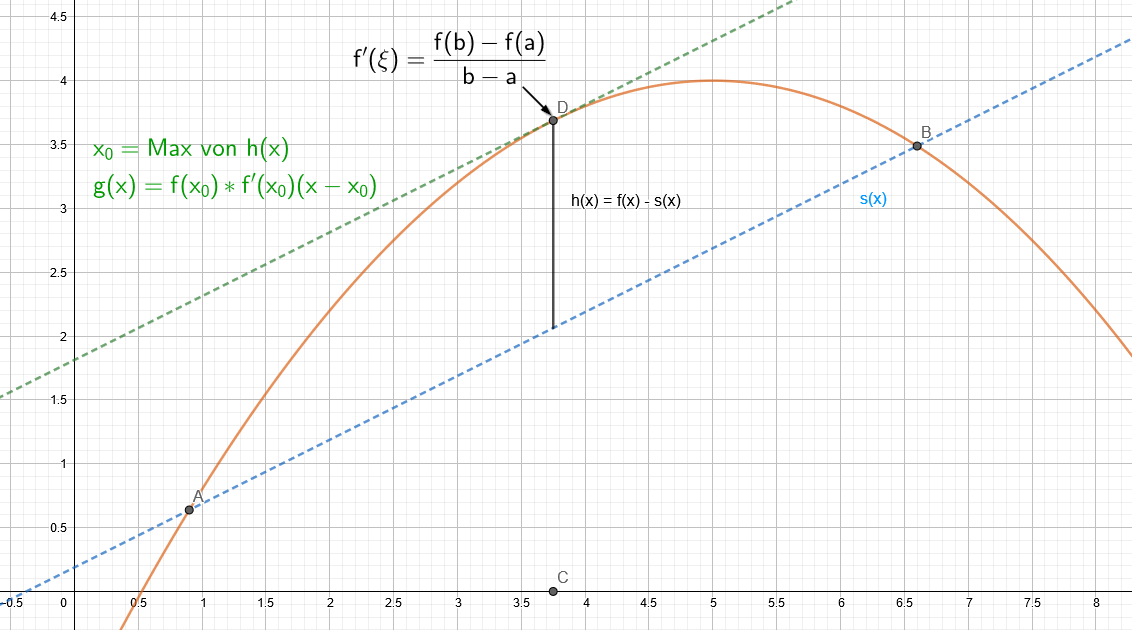
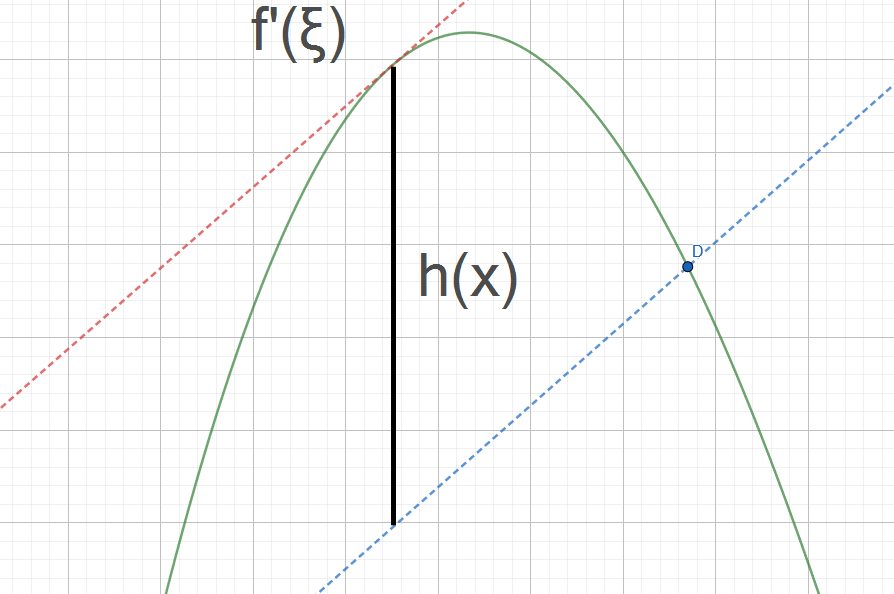
Improve MWS and Fehlerfortpflanzung

diff --git a/Sections/Differenzialrechnungen.tex b/Sections/Differenzialrechnungen.tex
@@ -34,9 +34,6 @@ Das Differential ist $dy = f'(x) \cdot dx$ und kann mit $\underbrace{f(x) - f(x_
 \end{tabular}
 }
 
-\subsection{Tangentengleichung}
-Bestimmen der Steigung $m$ durch $f'$ und anschliessend mit gegebenem Punkt $(x,y)$ folgenden Gleichung nach $b$ lösen:
-$y = mx + b$
 
 \subsection{Taylor-Reihe \bronstein{484}}
 Das Tayler-Polynom approximiert eine Funktion um einen Entwicklungspunkt $a$:
@@ -47,9 +44,9 @@ Das Tayler-Polynom approximiert eine Funktion um einen Entwicklungspunkt $a$:
 
 \subsubsection{Linearisierung}
 Spezialfall von Tayler-Polynom mit Entwicklungspunkt $a$:
-\[\hat{f}(x) = f(a) + f'(a)\cdot(x - a)\]
+\[Tn_2(x, a) = \hat{f}(x) = f(a) + f'(a)\cdot(x - a)\]
 
-\subsubsection{Restglied $R_n$}
+\subsubsection{Restglied}
 \begin{tabular}{ll}
 	Lagrange $R_n$ &= $\frac{f^{n + 1}(\xi)}{(n + 1)!} \cdot (x - a)^{n+1}$\\
 	Couchy $R_n$ &= $\frac{f^{n + 1}(\xi)}{n!} \cdot (x - a)^{n+1} (1 - \beta)^n$
@@ -64,17 +61,43 @@ Spezialfall von Tayler-Polynom mit Entwicklungspunkt $a$:
 \noindent\textbf{Relativer}-Fehler: $r = \frac{\text{absolut}}{f(x)} \rightarrow [\%]$
 
 \subsection{Fehlerrechnung und Fortpflanzung}
-\todo{Verbessern und Verallgemeinern}
-Durch Substituieren von \verweiseref{differential}:
+\begin{center}
+	\begin{tabular}{c|c|c|}
+		\diagbox{Y}{X} & $\Delta x$ (Abs) & $\frac{\Delta x}{x}$ (Rel) \\
+		\midrule
+		$\Delta y$ (Abs) & A & B \\
+		\midrule
+		$\frac{\Delta y}{y}$ (Rel) & C & D
+	\end{tabular}
+\end{center}
+
+\noindent Je nach Aufgabentype entsprechenden Fall in Tabelle wählen und von Y zu X rechnen. $\Delta x$ und $\Delta y$ müssen durch substituieren von \verweiseref{differential} ersetzt werden!
+
+\noindent\textbf{Beispiel}: Rel.Y zu Rel.X rechnen (Fall D)
 \[
-\dfrac{dy}{y} = \text{Relativer Inputfehler} = \dfrac{f'(x)dx}{y} \xRightarrow[Ziel]{}\dfrac{dx}{x}
+\dfrac{dy}{y_0} \approxeq \dfrac{f'(x)dx}{y_0} \xRightarrow[Ziel]{}\dfrac{dx}{x}
 \]
 
 \subsubsection{Mittelwertsatz Differentialrechnung}
-Bei einer Sekante (Mittlerer Durchschnitt von $a$ und $b$) gibt es auf der Funktion $f$ mindestens eine Punkt mit der selben Steigung $D$. Der Punkt kann durch das Maximieren der Hilfs-Funktion $h(x)$ gefunden werden. Auch gilt der Zusammenhang von $f'(\xi) = f'(x)$!
-\begin{center}
-	\includegraphics[height=12em]{./Images/Mittelwertsatz.png}
-\end{center}
+Der MWS \bronstein{454} wird oft für den Beweis einer Ungleichung verwendet, wenn die Funktion stetig und differenzierbar ist.
+\begin{minipage}{\textwidth}	
+	\begin{minipage}{0.2\textwidth}
+		\includegraphics[width=\linewidth,keepaspectratio=true]{./Images/Mittelwertsatz.png}
+	\end{minipage}%%% to prevent a space
+	\begin{minipage}{0.3\textwidth}	
+		\[f'(\xi) = \frac{f(b) - f(a)}{b - a}\] 
+		\[ h(x) = \textcolor{green}{f(x)} - \textcolor{blue}{s(x)} \]
+	\end{minipage}
+\end{minipage}
+
+\noindent\textbf{Beispiel} $\colorboxed{red}{\sin(x) < x},\quad x \in (0, \frac{\pi}{2}),\quad \xi \in (0, x)$
+\[\xRightarrow{\text{MWS}} \sin'(\xi) = \cos(\xi) = \frac{\sin(x) - \sin(0)}{x - 0}\]
+Weil $\xi$ zwischen 0 und $\frac{\pi}{2}$ ist, muss folgendes gelten: 
+
+$
+0 < \overbrace{\cos(\xi)}^{\text{MWS}} < 1 \rightarrow 0 < \frac{\sin(x)}{x} < 1 \rightarrow 0 < \colorboxed{red}{\sin(x) < x}
+$
+
 
 \subsection{Extremalwerte}
 Um ein relative Extremalwert zu berechnen, muss die Steigung an $x_0 = 0$ sein:

diff --git a/Sections/Integralrechnungen.tex b/Sections/Integralrechnungen.tex
@@ -1,13 +1,9 @@
 \section{Integralrechnung}
-
-\subsection{Riemann Integrierbarkeit}
 Das Riemann Integral zerlegt die Funktion $f$ in \textit{unendlich} viele Rechtecke mit Breite \textit{0} und einer zufälligen Höhe $\xi_i$. Die Summe aller Rechtecke konvergiert gegen die Fläche unter der Funktionslinie (Das Integral $I$).
 \[
 \int\limits_{a \text{ \tiny(untere Grenze)}}^{b \text{ \tiny(obere Grenze)}}f(x)dx = \lim_{\substack{n\to\infty\\\Delta x_i\to 0}} \sum\limits_{i = 1}^{n}f(\xi_i)\underbrace{(x_i - x_{i-1})}_{\Delta x_i}
 \]
-
-\subsubsection{Integrierbarkeit}
-Eine Funktion $f$ ist integrierbar, wenn sie stetig oder monoton beschränkt und an höchstens endlich vielen Stellen unstetig ist.
+\noindent Eine Funktion $f$ ist integrierbar, wenn sie stetig oder monoton beschränkt und an höchstens endlich vielen Stellen unstetig ist.
 
 \subsection{Bestimmtes Integral}
 \[\int_{a}^{b}f(x)dx = F(b) - F(a) = \int_{a}^{0}f(x)dx + \int_{0}^{b}f(x)dx\]
@@ -18,7 +14,7 @@ Eine Funktion $f$ ist integrierbar, wenn sie stetig oder monoton beschränkt und
 \noindent Integral Ungleichung:
 \[\left|\int_{a}^{b}f(x)dx\right| \leq \int_{a}^{b}\left|f(x)\right|dx\]
 
-\subsection{Mittelwertsatz}
-Sei $f(x)$ in $[a;b]$ stetig, dann ist der Mittelwert aller Punkte:
+\subsection{Mittelwertsatz Integral}
+Sei $f(x)$ in $[a;b]$ stetig, dann ist der Mittelwert (RMS) aller Punkte:
 \[\frac{1}{b-a}\int_{a}^{b}f(x)dx\]
 

diff --git a/Sections/Grenzwert.tex b/Sections/Grenzwert.tex
@@ -56,7 +56,7 @@ Wenn $\frac{f(x)}{g(x)} = \frac{0}{0}$ oder $\frac{\pm\infty}{\pm\infty}$ und $g
 \lim\limits_{x \rightarrow a}\frac{f(x)}{g(x)} = \lim\limits_{x \rightarrow a}\frac{f'(x)}{g'(x)}
 \]
 Falls die Ableitung noch unbestimmt ist, einfach Wiederholen.
-\\ \\
+\newpage
 \noindent\textbf{Hinweis}\\
 \begin{tabular}{rrl}
 	$f \cdot g\rightarrow $ & $ (0+) \cdot \infty$: & $\frac{f}{1 / g}$ vom Type $\frac{0}{0}$; $\frac{1/f}{g}$ vom Type $\frac{\infty}{\infty}$ \\ && \\
